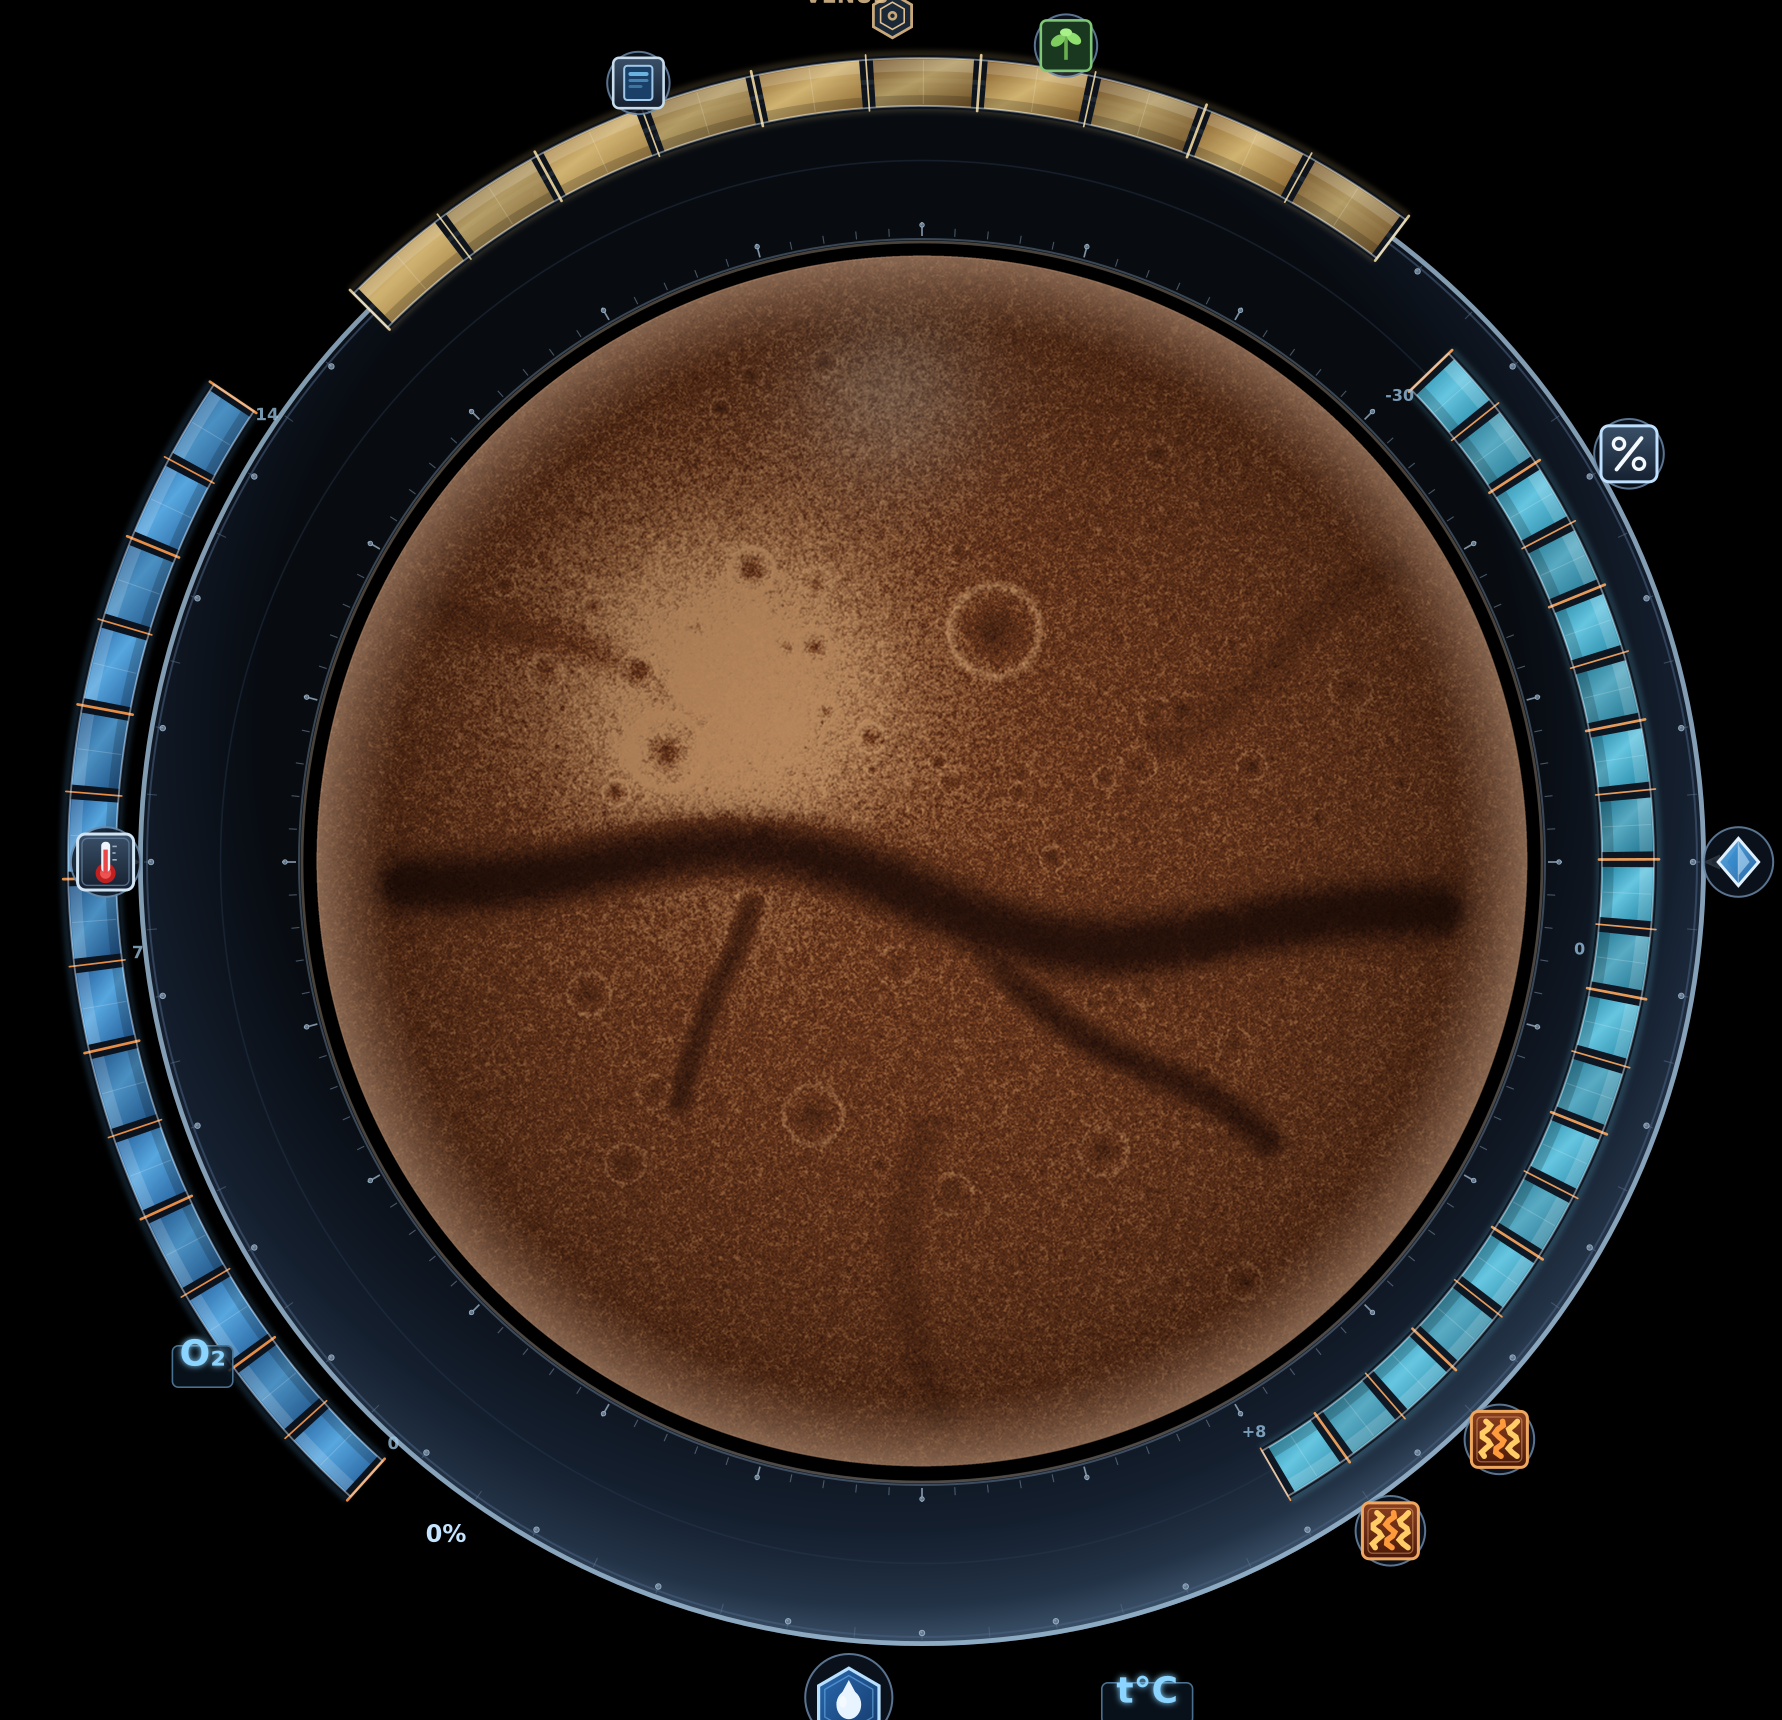
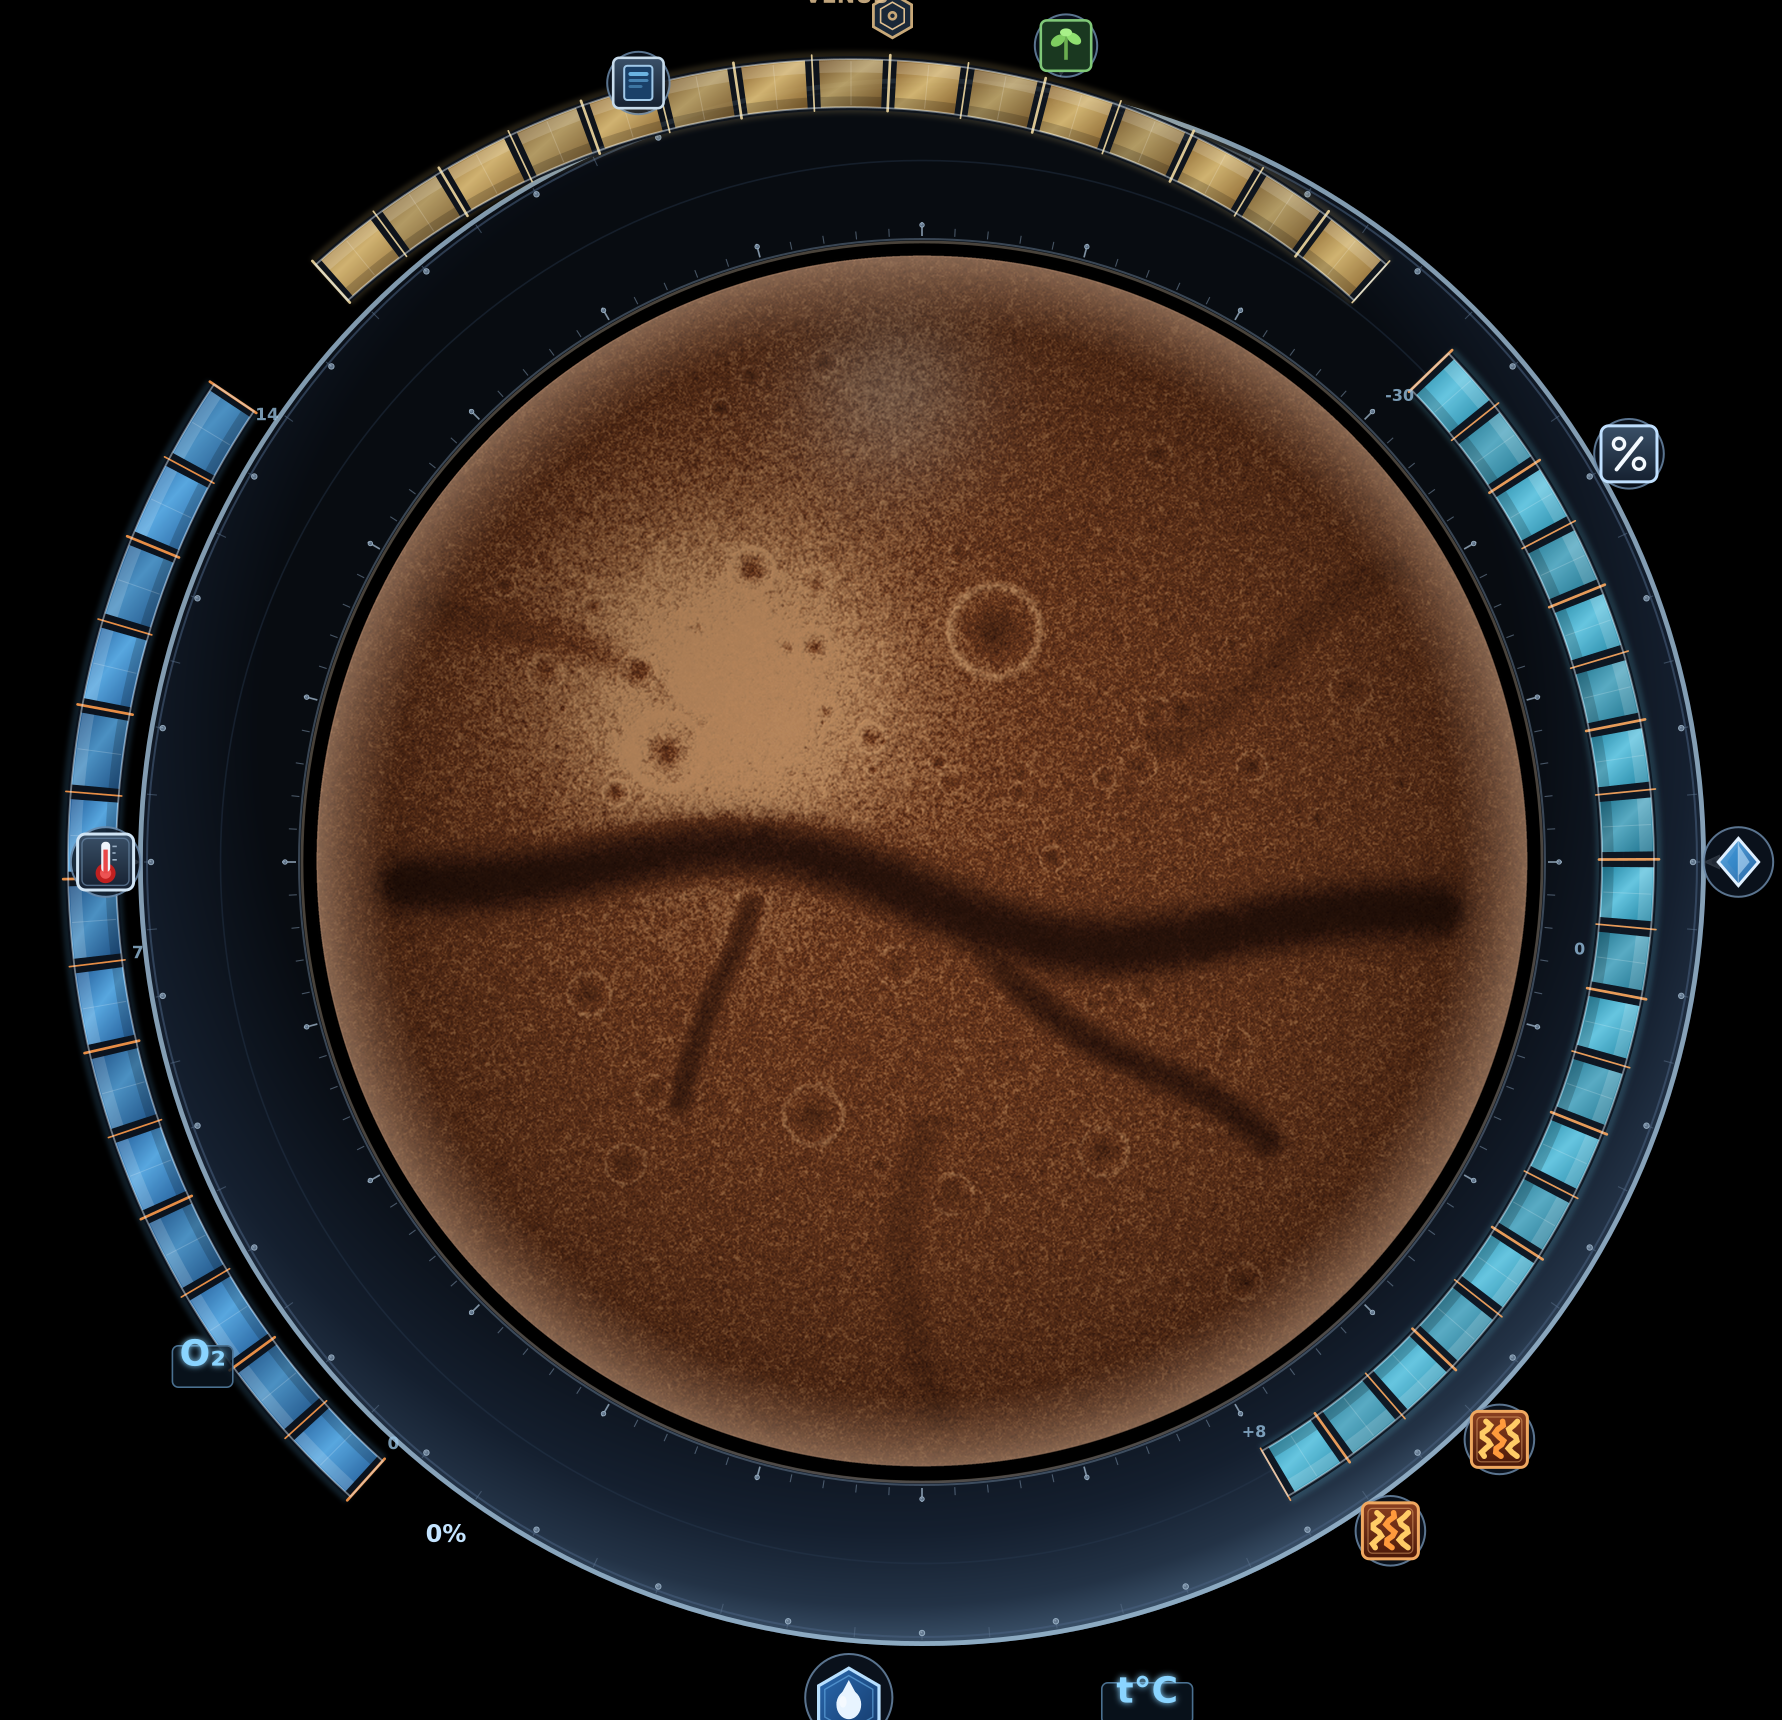
fix(consortium): align Venus SVG track to HTML pin loci
Venus pins are not concentric with the planet disc. Fit track centre
(425.5, 429.6) / r=388 so painted cells match globs.less after scale.
O2/temp were already within ~4px; hex OFFSET/DISC unchanged.

Changed region(s): [[0.1852, 0.0308, 0.8025, 0.1849]]

diff --git a/tools/consortium-art/_board_svg.py b/tools/consortium-art/_board_svg.py
@@ -20,7 +20,10 @@ BOARD_W, BOARD_H = 891, 860
 # Calibrated REF disc (same as build_board.DISC_* → logical).
 DISC_CX, DISC_CY, DISC_R = 461.0, 431.0, 304.0
 
-# Track calibration — mirrors _board_chrome._TRACKS (0°=east, +CW on screen).
+# Track calibration (0°=east, +CW on screen). Radii/angles fitted to
+# globs.less HTML pin loci after Consortium scale(891/620, 860/600).
+# Venus is deliberately off-centre — Tharsis Venus pins are not concentric
+# with the planet disc (fitted circle ≈ (425.5, 429.6), r≈388).
 _TRACKS = {
     'oxygen': {
         'start': 132.0, 'end': 214.0, 'r_mid': 415.0, 'half': 12.0,
@@ -28,9 +31,10 @@ _TRACKS = {
         'c0': '#1e5a9a', 'c1': '#5eb4f0', 'tick': '#ff9a4a',
     },
     'venus': {
-        'start': 225.0, 'end': 307.0, 'r_mid': 390.0, 'half': 12.0,
-        'segments': 10,
+        'start': 228.0, 'end': 312.0, 'r_mid': 388.0, 'half': 12.0,
+        'segments': 15,  # one cell per Venus step (0..30 / 2)
         'c0': '#8a6028', 'c1': '#e0c078', 'tick': '#f0d8a0',
+        'cx': 425.5, 'cy': 429.6,  # non-concentric with planet disc
     },
     'temperature': {
         'start': 316.0, 'end': 420.0, 'r_mid': 353.0, 'half': 13.0,
@@ -447,6 +451,10 @@ def _pointer(cx, cy, deg, size) -> str:
 
 def _segmented_track(cx, cy, tr, scale, name) -> str:
     """Per-cell annular segments with glass bevel — denser than a flat arc."""
+    # Optional per-track centre (Venus is not concentric with the planet).
+    tcx = tr.get('cx', cx)
+    tcy = tr.get('cy', cy)
+    # r_mid / half are in logical px already (calibrated to 891×860).
     r_mid = tr['r_mid'] * scale
     half = tr['half'] * scale
     r_out, r_in = r_mid + half, r_mid - half
@@ -455,12 +463,12 @@ def _segmented_track(cx, cy, tr, scale, name) -> str:
     span = end - start
     parts = [f'<g id="track_{name}">']
     # Soft glow under whole track.
-    glow = _annular_sector(cx, cy, r_out + 4 * scale, r_in - 3 * scale, start, end)
+    glow = _annular_sector(tcx, tcy, r_out + 4 * scale, r_in - 3 * scale, start, end)
     parts.append(
         f'<path d="{glow}" fill="{tr["c1"]}" opacity="0.16" filter="url(#softBlur)"/>'
     )
     # Track bed (dark channel).
-    bed = _annular_sector(cx, cy, r_out + 1.5 * scale, r_in - 1.5 * scale, start, end)
+    bed = _annular_sector(tcx, tcy, r_out + 1.5 * scale, r_in - 1.5 * scale, start, end)
     parts.append(f'<path d="{bed}" fill="#0a121c" opacity="0.85"/>')
     # Individual cells.
     gap_deg = span * 0.012
@@ -469,25 +477,23 @@ def _segmented_track(cx, cy, tr, scale, name) -> str:
         a1 = start + span * (i + 1) / n - gap_deg * 0.5
         if a1 <= a0:
             continue
-        # Color ramp along track.
-        t = i / max(n - 1, 1)
-        cell = _annular_sector(cx, cy, r_out, r_in, a0, a1)
+        cell = _annular_sector(tcx, tcy, r_out, r_in, a0, a1)
         # Alternate cell brightness for machined look.
         op = 0.92 if i % 2 == 0 else 0.78
         parts.append(
             f'<path d="{cell}" fill="url(#grad_{name})" opacity="{op:.2f}"/>'
         )
         # Glass top highlight per cell.
-        hi = _annular_sector(cx, cy, r_out - 0.8 * scale, r_out - half * 0.55, a0, a1)
+        hi = _annular_sector(tcx, tcy, r_out - 0.8 * scale, r_out - half * 0.55, a0, a1)
         parts.append(f'<path d="{hi}" fill="#ffffff" opacity="0.16"/>')
         # Inner shadow.
-        sh = _annular_sector(cx, cy, r_in + half * 0.45, r_in + 0.6 * scale, a0, a1)
+        sh = _annular_sector(tcx, tcy, r_in + half * 0.45, r_in + 0.6 * scale, a0, a1)
         parts.append(f'<path d="{sh}" fill="#000000" opacity="0.18"/>')
     # Major ticks (every segment) + minor mid-ticks.
     for i in range(n + 1):
         a = start + span * i / n
-        x0, y0 = _polar(cx, cy, r_in - 1.5 * scale, a)
-        x1, y1 = _polar(cx, cy, r_out + 2.5 * scale, a)
+        x0, y0 = _polar(tcx, tcy, r_in - 1.5 * scale, a)
+        x1, y1 = _polar(tcx, tcy, r_out + 2.5 * scale, a)
         w = max(1.1, 1.35 * scale) if i % 2 == 0 else max(0.7, 0.85 * scale)
         parts.append(
             f'<line x1="{x0:.2f}" y1="{y0:.2f}" x2="{x1:.2f}" y2="{y1:.2f}" '
@@ -496,14 +502,14 @@ def _segmented_track(cx, cy, tr, scale, name) -> str:
         )
         if i < n:
             am = start + span * (i + 0.5) / n
-            mx0, my0 = _polar(cx, cy, r_in + 1, am)
-            mx1, my1 = _polar(cx, cy, r_out - 1, am)
+            mx0, my0 = _polar(tcx, tcy, r_in + 1, am)
+            mx1, my1 = _polar(tcx, tcy, r_out - 1, am)
             parts.append(
                 f'<line x1="{mx0:.2f}" y1="{my0:.2f}" x2="{mx1:.2f}" y2="{my1:.2f}" '
                 f'stroke="#ffffff" stroke-width="0.5" stroke-opacity="0.18"/>'
             )
     # Outer rim stroke on track.
-    rim = _annular_sector(cx, cy, r_out, r_in, start, end)
+    rim = _annular_sector(tcx, tcy, r_out, r_in, start, end)
     parts.append(
         f'<path d="{rim}" fill="none" stroke="#e8f4ff" stroke-opacity="0.45" '
         f'stroke-width="0.9"/>'
